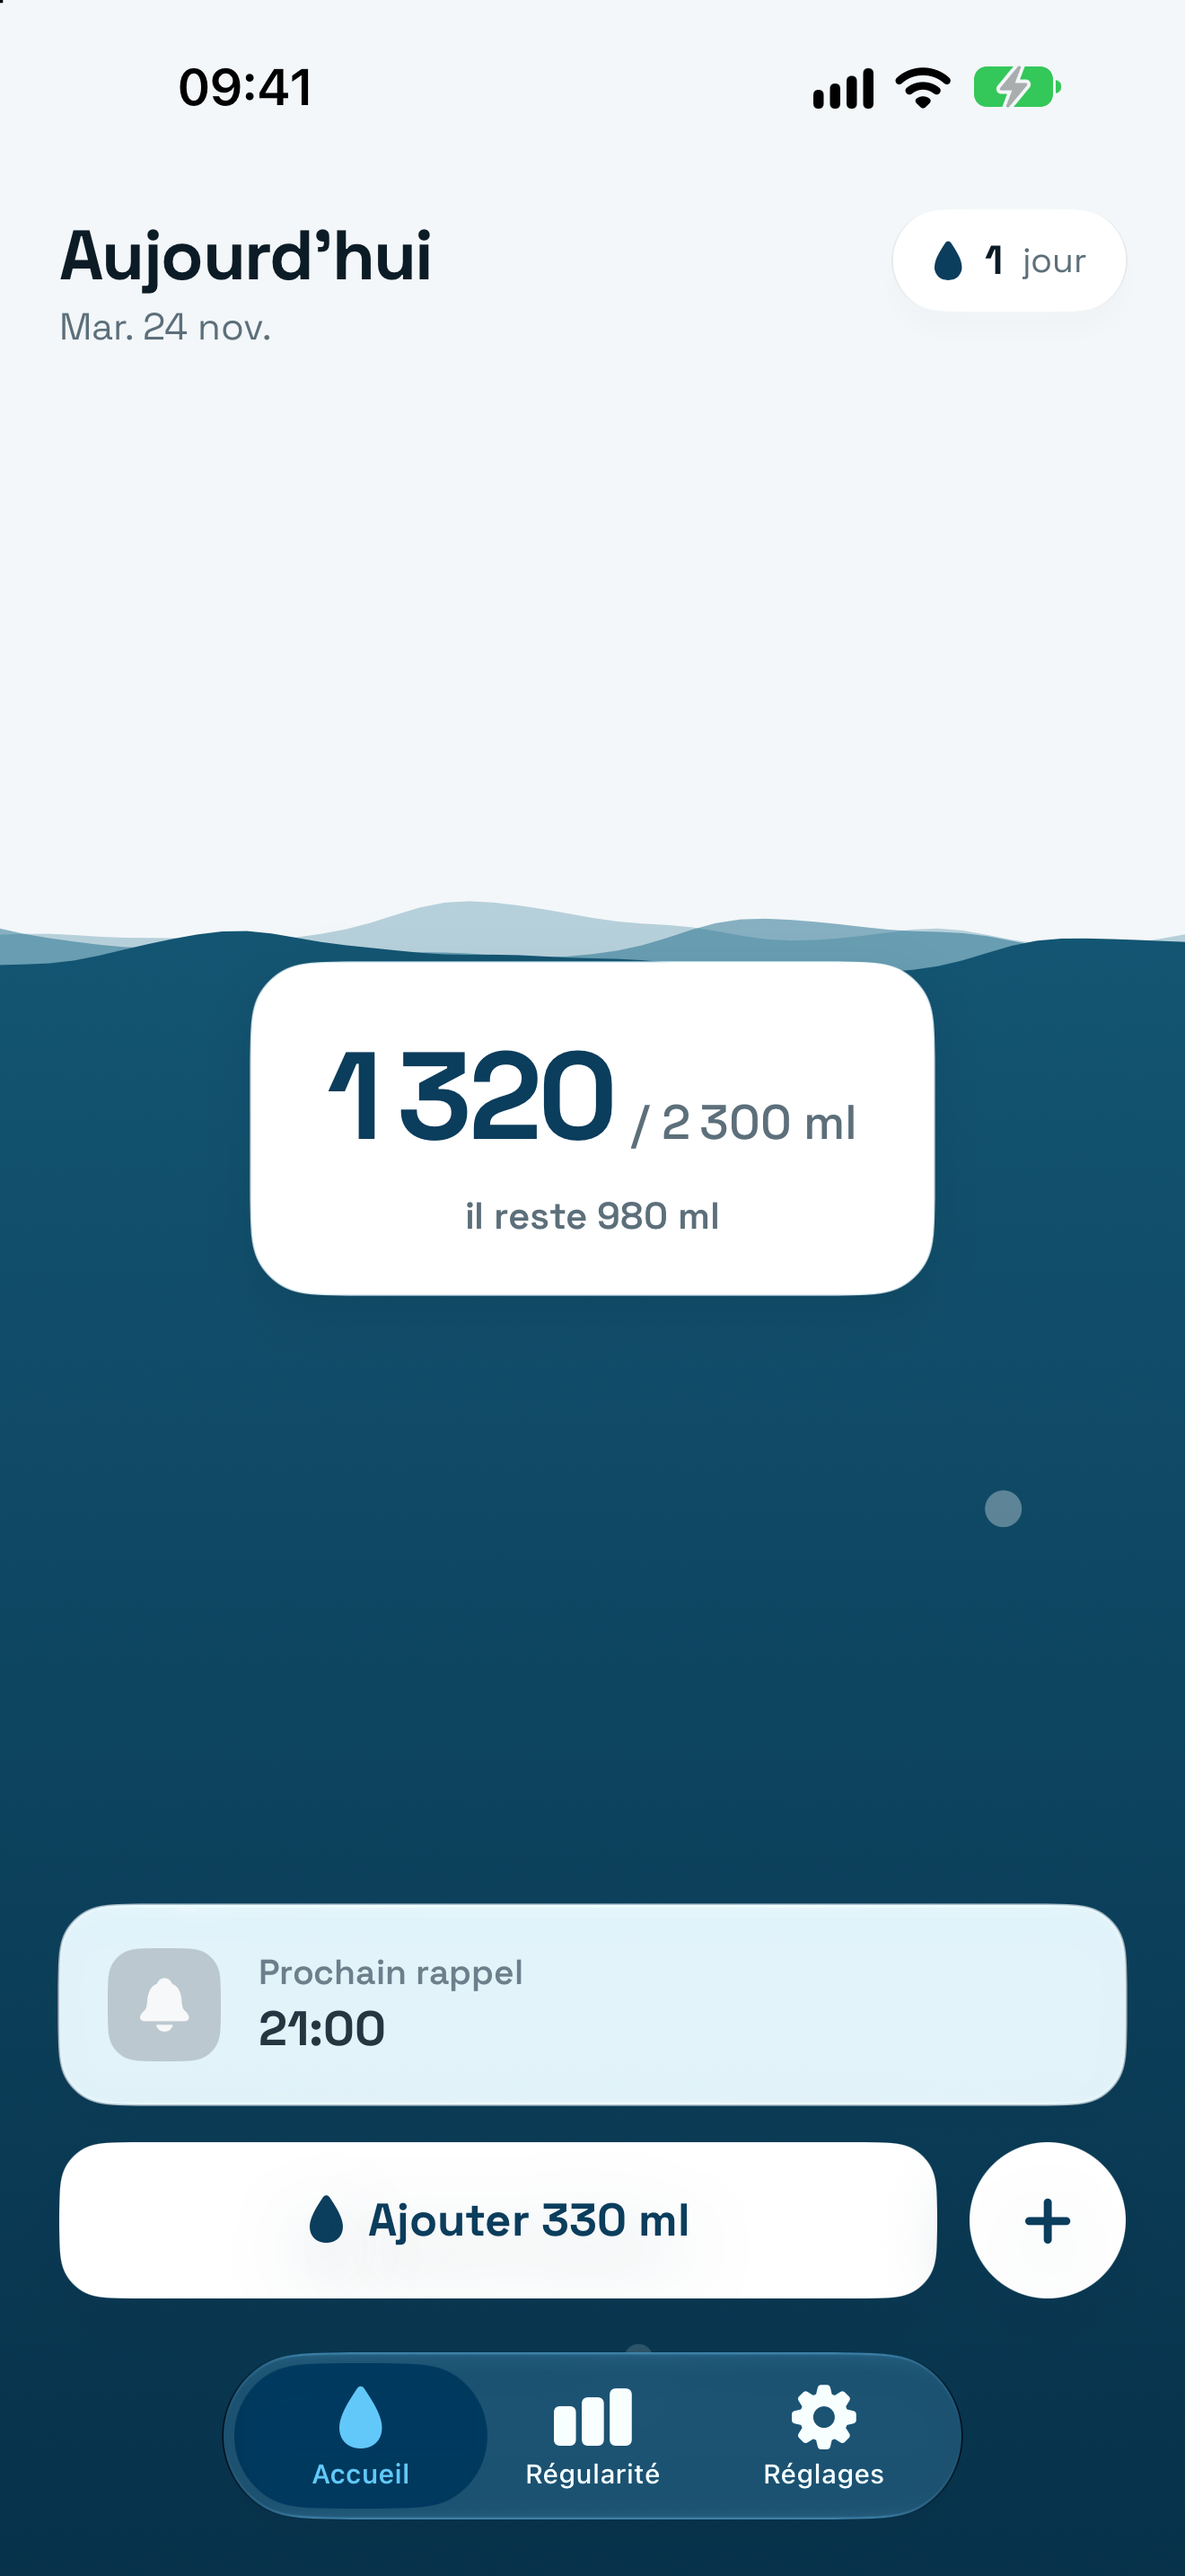
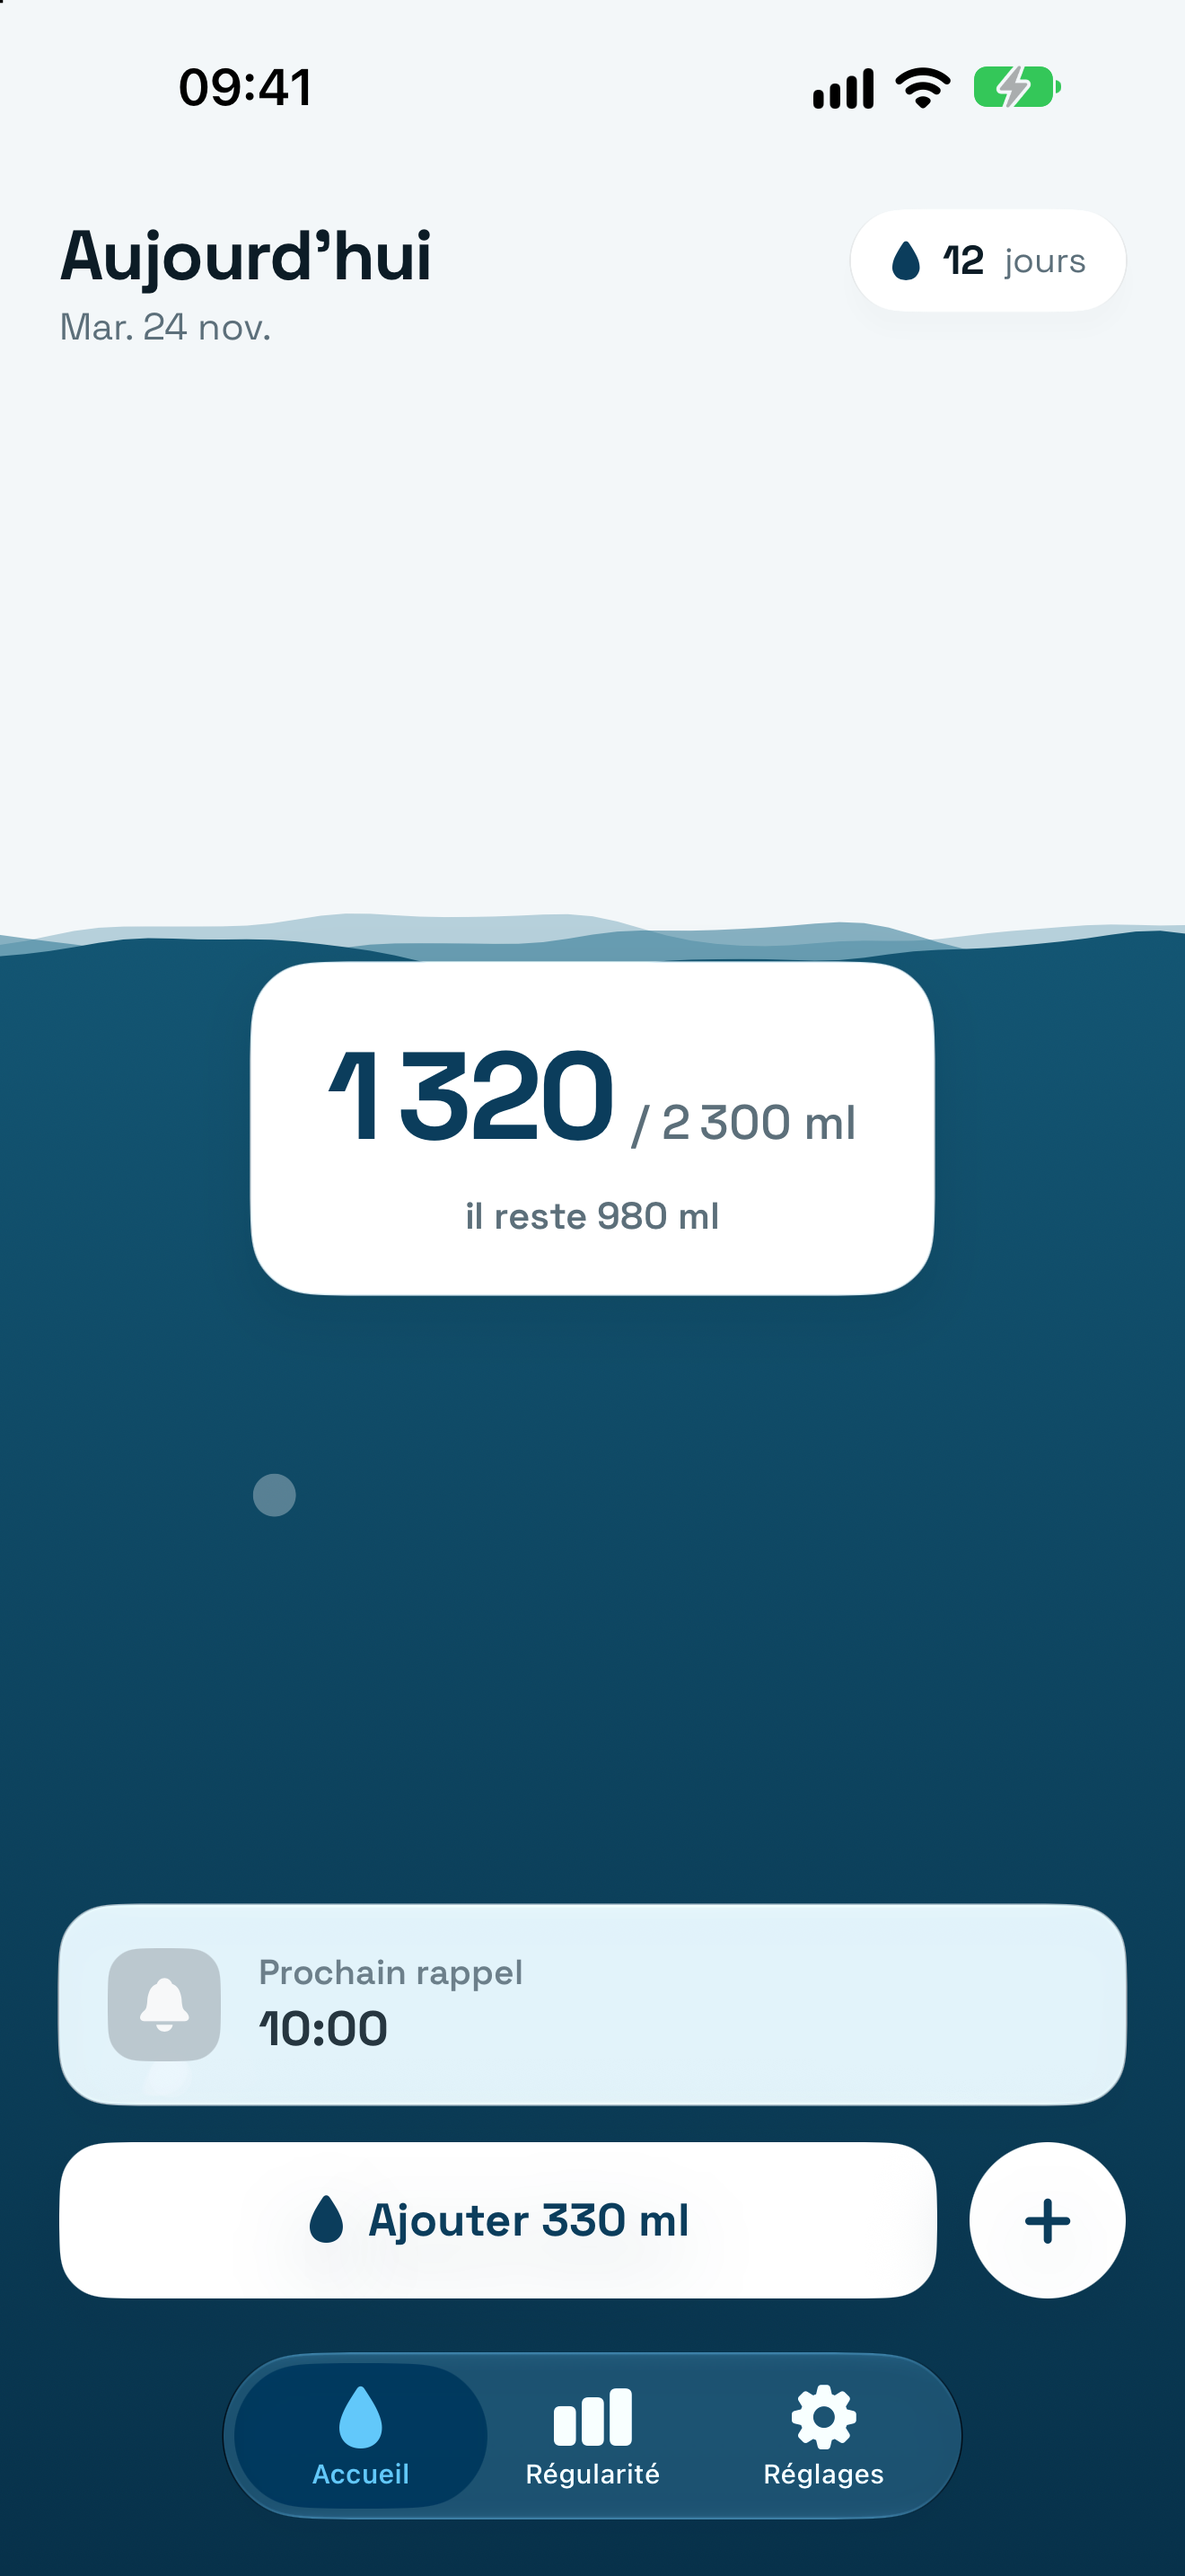
App Store screenshots: raw captures retaken at a fixed Tuesday 9:41 (1 320 of 2 300 ml, next reminder 10:00, 12-day streak), the 140 ml dose, a full week with 32 goals reached and a 12-day best streak, widgets with 230/330/510 ml on a dark home screen; marketing set at 1320 x 2868 in fr and en (head

diff --git a/ios-app/docs/app-store-screenshots/source/template.html b/ios-app/docs/app-store-screenshots/source/template.html
@@ -1,0 +1,131 @@
+<!doctype html>
+<!--
+  App Store marketing screenshot, 1320 × 2868 (iPhone 6.9").
+  Open as template.html?lang=fr&n=1 (n = 1…5). Rendered by render.sh.
+  Captures come from ../iphone-6.9/<lang>/; fonts from the landing page.
+-->
+<html>
+<head>
+<meta charset="utf-8">
+<style>
+  @font-face {
+    font-family: 'Space Grotesk';
+    font-weight: 400 700;
+    src: url('../../../../landing-page/public/fonts/space-grotesk-latin.woff2') format('woff2');
+  }
+  :root {
+    --primary-dark: #0b3d5c;
+    --water-deep: #07314a;
+    --abyss: #062940;
+    --accent-cyan: #3e9bc7;
+    --foam: #8fd6f2;
+    --accent: #de9a2f;
+  }
+  * { box-sizing: border-box; margin: 0; padding: 0; }
+  html, body { width: 1320px; height: 2868px; overflow: hidden; }
+  body {
+    position: relative;
+    font-family: 'Space Grotesk', sans-serif;
+    color: #fff;
+    background:
+      radial-gradient(110% 60% at var(--glow-x, 80%) 4%, rgba(62, 155, 199, 0.42), transparent 62%),
+      radial-gradient(90% 50% at 10% 100%, rgba(31, 110, 140, 0.55), transparent 70%),
+      linear-gradient(168deg, #0b3d5c 0%, #07314a 58%, #062940 100%);
+  }
+  .waves { position: absolute; left: 0; right: 0; bottom: 0; height: 1100px; }
+  .copy {
+    position: absolute; top: 150px; left: 80px; right: 80px;
+    text-align: center;
+  }
+  h1 {
+    font-weight: 700; font-size: 124px; line-height: 1.02;
+    letter-spacing: -0.035em;
+    text-wrap: balance;
+  }
+  h1 em { font-style: normal; color: var(--foam); }
+  p {
+    margin-top: 40px;
+    font-weight: 500; font-size: 48px; line-height: 1.25;
+    color: rgba(230, 245, 252, 0.88);
+    text-wrap: balance;
+  }
+  /* Device: 1320 × 2868 screen scaled to 960 wide, titanium rim. */
+  .phone {
+    position: absolute; left: 50%; top: 650px;
+    width: 1004px; height: 2130px; transform: translateX(-50%);
+    border-radius: 158px;
+    padding: 22px;
+    background: linear-gradient(145deg, #3a4b57 0%, #121d25 40%, #0b141a 60%, #33444f 100%);
+    box-shadow:
+      0 0 0 3px rgba(255, 255, 255, 0.14),
+      0 60px 120px rgba(2, 18, 30, 0.6),
+      0 20px 40px rgba(2, 18, 30, 0.35);
+  }
+  .phone::before { /* inner black bezel */
+    content: ''; position: absolute; inset: 10px; border-radius: 148px; background: #05090c;
+  }
+  .screen {
+    position: relative; width: 960px; height: 2086px;
+    border-radius: 136px; overflow: hidden; background: #000;
+  }
+  .screen img { display: block; width: 100%; height: 100%; }
+  .island {
+    position: absolute; top: 30px; left: 50%; transform: translateX(-50%);
+    width: 274px; height: 80px; border-radius: 40px; background: #000;
+  }
+  .btn { position: absolute; width: 8px; border-radius: 4px; background: #26343e; }
+</style>
+</head>
+<body>
+<svg class="waves" viewBox="0 0 1320 1100" preserveAspectRatio="none" aria-hidden="true">
+  <path d="M0 420 C 220 360, 420 470, 660 420 S 1100 360, 1320 410 L1320 1100 L0 1100 Z" fill="rgba(62,155,199,0.10)"/>
+  <path d="M0 560 C 260 500, 480 610, 720 560 S 1120 500, 1320 560 L1320 1100 L0 1100 Z" fill="rgba(62,155,199,0.10)"/>
+  <path d="M0 720 C 240 670, 520 770, 760 720 S 1140 670, 1320 715 L1320 1100 L0 1100 Z" fill="rgba(4,30,46,0.45)"/>
+</svg>
+
+<div class="copy">
+  <h1 id="title"></h1>
+  <p id="sub"></p>
+</div>
+
+<div class="phone">
+  <div class="btn" style="left:-6px; top:430px; height:110px"></div>
+  <div class="btn" style="left:-6px; top:580px; height:190px"></div>
+  <div class="btn" style="left:-6px; top:800px; height:190px"></div>
+  <div class="btn" style="right:-6px; top:640px; height:300px"></div>
+  <div class="screen">
+    <img id="shot" alt="">
+    <div class="island"></div>
+  </div>
+</div>
+
+<script>
+  const COPY = {
+    fr: [
+      ['home',    'Bois. <em>Débloque.</em><br>Avance.', 'Les apps de ton choix se verrouillent jusqu’à ton verre.'],
+      ['thirst',  'Une question,<br><em>la bonne dose</em>', 'Dis comment tu te sens, Hydravia calcule ton verre.'],
+      ['dose',    'Tu bois,<br><em>tout se débloque</em>', 'Un verre à ta mesure, et tes apps reviennent.'],
+      ['history', 'Ta régularité,<br><em>sans culpabilité</em>', 'Des séries qui motivent, jamais de reproches.'],
+      ['widgets', 'Ton eau<br><em>d’un coup d’œil</em>', 'Widgets sur l’écran d’accueil et app Apple Watch.'],
+    ],
+    en: [
+      ['home',    'Drink. <em>Unlock.</em><br>Move on.', 'The apps you pick lock until you drink.'],
+      ['thirst',  'One question,<br><em>the right amount</em>', 'Say how you feel, Hydravia sizes your glass.'],
+      ['dose',    'Drink, and<br><em>everything unlocks</em>', 'A glass sized to your day, then your apps are back.'],
+      ['history', 'Your streak,<br><em>without the guilt</em>', 'Streaks that motivate, never a lecture.'],
+      ['widgets', 'Your water<br><em>at a glance</em>', 'Home Screen widgets and an Apple Watch app.'],
+    ],
+  };
+  const q = new URLSearchParams(location.search);
+  const lang = q.get('lang') === 'en' ? 'en' : 'fr';
+  const n = Math.min(5, Math.max(1, Number(q.get('n')) || 1));
+  const [scene, title, sub] = COPY[lang][n - 1];
+  document.documentElement.lang = lang;
+  document.getElementById('title').innerHTML = title;
+  document.getElementById('sub').textContent = sub;
+  document.getElementById('shot').src = `../iphone-6.9/${lang}/0${n}-${scene}.png`;
+  // The glow drifts across the set so the five read as one sweep.
+  document.body.style.setProperty('--glow-x', `${15 + (n - 1) * 17}%`);
+</script>
+</body>
+</html>
